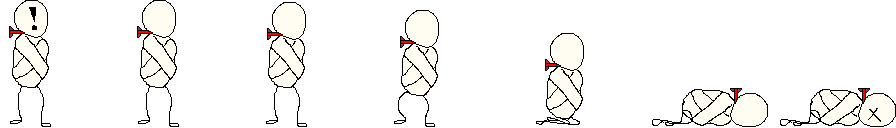
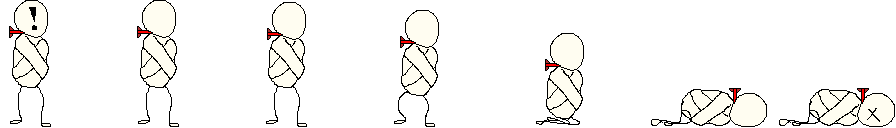
get taserd

Changed region(s): [[0.7188, 0.6875, 1.0, 0.9688]]

diff --git a/src/js/game.js b/src/js/game.js
@@ -6,13 +6,15 @@ var canvasWidth = 1024
 var canvasHeight = 768
 
 var isWakingUp = false
-var wakingUpTime = 60 * 2
+var wakingUpTime = 60 * 4.6
 var wakingUpCount = wakingUpTime
 
-var isFallingAsleep = false
 var winningAnimationPlaying = false
 
-var guardCount = 1
+var guardCount = 2
+
+var isOnIt = false
+var isAtDoor = false
 
 var player = {
   x: 0,
@@ -24,23 +26,27 @@ var player = {
   distress: 0,
   direction: 'left',
   isWalking: false,
+  caughtBy: null,
 }
 
 var guardFactory = function () {
-  return JSON.parse(JSON.stringify({
-    isOnIt: false,
-    isAtDoor: false,
+  var guard = JSON.parse(JSON.stringify({
     shotCooldownStart: 67,
     shotCooldown: 67,
-    x: 128 + 44,
+    x: 128 + 44 + (64 * Math.random()),
     y: 32,
-    speed: 1.2,
+    speed: 1.2 + Math.random(),
     isWalking: false,
     direction: 'right',
+    isTasering: false,
   }))
+
+  guard.guard_walking_sprite = SpriteSheet.new(images.guard_walking, images.guard_walking_sprite_template)
+
+  return guard
 }
 
-var guard1 = guardFactory()
+var guards = []
 
 var shotFactory = function (x, y, targetX, targetY) {
   var dx = targetX - x
@@ -67,8 +73,13 @@ var reset = function () {
   player.distress = 0
   player.speed = player.baseSpeed
   player.isWalking = false
+  player.direction = 'left'
+  player.caughtBy = null
 
-  guard1 = guardFactory()
+  guards = []
+  for (var i = 0; i < guardCount; i++) {
+    guards.push(guardFactory())
+  }
 
   shots = []
 
@@ -80,7 +91,13 @@ var reset = function () {
   images.freedom_sprite.pause()
   images.freedom_sprite.currentFrame = 0
 
-  isFallingAsleep = false
+  images.gubbe_standup_sprite.currentFrame = 0
+  images.gubbe_standup_sprite.play()
+
+  isOnIt = false
+  isAtDoor = false
+  isWakingUp = true
+
   winningAnimationPlaying = false
 
   wakingUpCount = wakingUpTime
@@ -90,7 +107,6 @@ module.exports = {
   name: 'game',
   create: function () {
     console.log('game create', this.sharedObject)
-    isWakingUp = true
     reset()
   },
   destroy: function () {
@@ -100,13 +116,15 @@ module.exports = {
   update: function () {
 
     if (isWakingUp) {
+      images.gubbe_standup_sprite.tick(1000/60)
       wakingUpCount--
       if (wakingUpCount < 0) {
         isWakingUp = false
       }
       return
-    } else if (isFallingAsleep) {
+    } else if (player.caughtBy !== null) {
       images.gubbe_putdown_sprite.tick(1000 / 60)
+      images.gubbe_taserd_sprite.tick(1000 / 60)
       return
     } else if (winningAnimationPlaying) {
       images.freedom_sprite.tick(1000 / 60)
@@ -161,38 +179,60 @@ module.exports = {
     }
 
     // trigger guard
-    if (player.distress > 520 && !guard1.isOnIt) {
-      guard1.isOnIt = true
+    if (player.distress > 520 && !isOnIt) {
+      isOnIt = true
 
-      guard1.isAtDoor = true
+      isAtDoor = true
       images.door_sprite.currentFrame = 1
 
     }
 
-    // shoot tranquilizer
-    if (guard1.isAtDoor) {
-      guard1.isWalking = false
-      if (guard1.shotCooldown < 0) {
-        shots.push(shotFactory(guard1.x, guard1.y, player.x, player.y))
-        guard1.shotCooldown = guard1.shotCooldownStart
-      } else if (guard1.shotCooldown > guard1.shotCooldownStart / 2) {
-        var dx = player.x - guard1.x
-        var dy = player.y - guard1.y
-        var angle = Math.atan2(dy, dx)
-        guard1.x += Math.cos(angle) * guard1.speed
-        guard1.y += Math.sin(angle) * guard1.speed
+    // shoot tranquilizer and walk guards
+    if (isAtDoor) {
 
-        images.guard_walking_sprite.tick(1000/60)
-        guard1.isWalking = true
+      var playerMiddleX = player.x - player.w / 2
+      var playerMiddleY = player.y - player.h / 2
 
-        if (dx > 0) {
-          guard1.direction = 'right'
-        } else {
-          guard1.direction = 'left'
+      for (var i = 0; i < guards.length; i++) {
+        var guard = guards[i]
+        guard.isWalking = false
+        if (guard.shotCooldown < 0) {
+          shots.push(shotFactory(guard.x, guard.y, player.x, player.y))
+          guard.shotCooldown = guard.shotCooldownStart
+        } else if (guard.shotCooldown > guard.shotCooldownStart / 2) {
+          var dx = player.x - guard.x
+          var dy = player.y - guard.y
+          var angle = Math.atan2(dy, dx)
+          guard.x += Math.cos(angle) * guard.speed
+          guard.y += Math.sin(angle) * guard.speed
+          guard.guard_walking_sprite.tick(1000/60)
+          guard.isWalking = true
+
+          if (dx > 0) {
+            guard.direction = 'right'
+          } else {
+            guard.direction = 'left'
+          }
         }
-      }
 
-      guard1.shotCooldown--
+        var a = guard.x - playerMiddleX
+        var b = guard.y - playerMiddleY
+        var deltaDistance = Math.sqrt(a * a + b * b)
+
+        if (deltaDistance < 64) {
+          player.caughtBy = 'taser'
+
+          guard.isTasering = true
+
+          setTimeout(function () {
+            reset()
+          }, 2800)
+
+          return
+        }
+
+        guard.shotCooldown--
+      }
     }
 
     // update shots
@@ -202,12 +242,11 @@ module.exports = {
       shot.y += Math.sin(shot.angle) * shot.speed
 
       if (isPointInsideRect(shot.x, shot.y, player.x, player.y, player.w, player.h)) {
-        isFallingAsleep = true
+        player.caughtBy = 'shot'
 
         images.gubbe_putdown_sprite.play()
 
         setTimeout(function () {
-          isWakingUp = true
           reset()
         }, 4000)
       }
@@ -222,11 +261,10 @@ module.exports = {
     images.emotions3_sprite.tick((1000 / 60) * player.distress / 100)
 
     // is player at win trigger
-    if (isPointInsideRect(player.x, player.y, 128 + 44, 32, 72, 64)) {
+    if (isAtDoor && isPointInsideRect(player.x, player.y, 128 + 44, 32, 72, 64)) {
       winningAnimationPlaying = true
       images.freedom_sprite.play()
       setTimeout(function () {
-        isWakingUp = true
         reset()
       }, 6000)
     }
@@ -248,9 +286,11 @@ module.exports = {
       renderingContext.translate(player.x, player.y - 64)
     }
 
-    if (isFallingAsleep) {
+    if (player.caughtBy === 'shot') {
       images.gubbe_putdown_sprite.draw(renderingContext)
-    } else if (!winningAnimationPlaying) {
+    } else if (player.caughtBy === 'taser') {
+      images.gubbe_taserd_sprite.draw(renderingContext)
+    } else if (!winningAnimationPlaying && !isWakingUp) {
       if (player.isWalking) {
         images.gubbe_walking_sprite.draw(renderingContext)
       } else {
@@ -260,7 +300,7 @@ module.exports = {
 
     renderingContext.restore()
 
-    if (!isFallingAsleep && !winningAnimationPlaying) {
+    if (player.caughtBy === null && !winningAnimationPlaying && !isWakingUp) {
       if (player.distress > 480) {
         renderingContext.save()
         renderingContext.translate(player.x, player.y - 76)
@@ -289,31 +329,43 @@ module.exports = {
       }
     }
 
-    if (guard1.isAtDoor) {
+    if (isAtDoor) {
 
       // renderingContext.fillStyle = '#FFFF00'
       // renderingContext.fillRect(128 + 44, 32, 72, 64)
 
-      renderingContext.save()
-      if (guard1.direction === 'left') {
-        renderingContext.translate(guard1.x + 64, guard1.y - 64)
-        renderingContext.scale(-1, 1)
-      } else {
-        renderingContext.translate(guard1.x, guard1.y - 64)
-      }
+      for (var i = 0; i < guards.length; i++) {
+        var guard = guards[i]
+        renderingContext.save()
+        if (guard.direction === 'left') {
+          renderingContext.translate(guard.x + 64, guard.y - 64)
+          renderingContext.scale(-1, 1)
+        } else {
+          renderingContext.translate(guard.x, guard.y - 64)
+        }
 
-      if (guard1.isWalking) {
-        images.guard_walking_sprite.draw(renderingContext)
-        renderingContext.restore()
-      } else {
-        renderingContext.restore()
-        renderingContext.drawImage(images.guard_stand, guard1.x, guard1.y - 64)
+        if (guard.isTasering) {
+          images.guard_tasering_sprite.draw(renderingContext)
+          renderingContext.restore()
+        } else if (guard.isWalking) {
+          guard.guard_walking_sprite.draw(renderingContext)
+          renderingContext.restore()
+        } else {
+          renderingContext.restore()
+          renderingContext.drawImage(images.guard_stand, guard.x, guard.y - 64)
+        }
       }
 
     }
 
 
     if (isWakingUp) {
+
+      renderingContext.save()
+      renderingContext.translate(player.x, player.y - 64)
+      images.gubbe_standup_sprite.draw(renderingContext)
+      renderingContext.restore()
+
       var alpha = wakingUpCount / wakingUpTime
       renderingContext.fillStyle = 'rgba(0, 0, 0, ' + alpha + ')'
       renderingContext.fillRect(0, 0, canvasWidth, canvasHeight)

diff --git a/src/js/images.js b/src/js/images.js
@@ -10,13 +10,26 @@ var gubbe_stand = new Image();
 gubbe_stand.src = "../../assets/images/gubbe_stand.png";
 
 var gubbe_stand_sprite = SpriteSheet.new(gubbe_stand, {
-  frames: [1000, 50],
+  frames: [1000, 50, 900, 70, 110],
   x: 0,
   y: 0,
   width: 64,
   height: 128,
   restart: true,
   autoPlay: true,
+})
+
+var gubbe_standup = new Image();
+gubbe_standup.src = "../../assets/images/gubbe_standup.png";
+
+var gubbe_standup_sprite = SpriteSheet.new(gubbe_standup, {
+  frames: [2000, 500, 1000, 500, 200, 200, 200],
+  x: 0,
+  y: 0,
+  width: 64,
+  height: 128,
+  restart: false,
+  autoPlay: false,
 })
 
 var gubbe_walking = new Image();
@@ -35,8 +48,21 @@ var gubbe_walking_sprite = SpriteSheet.new(gubbe_walking, {
 var guard_walking = new Image();
 guard_walking.src = "../../assets/images/guard_walk.png";
 
-var guard_walking_sprite = SpriteSheet.new(guard_walking, {
+var guard_walking_sprite_template = {
   frames: [200, 200, 200],
+  x: 0,
+  y: 0,
+  width: 64,
+  height: 128,
+  restart: true,
+  autoPlay: true,
+}
+
+var guard_tasering = new Image();
+guard_tasering.src = "../../assets/images/guard_taser.png";
+
+var guard_tasering_sprite = SpriteSheet.new(guard_tasering, {
+  frames: [40, 40],
   x: 0,
   y: 0,
   width: 64,
@@ -110,11 +136,24 @@ var gubbe_putdown_sprite = SpriteSheet.new(gubbe_putdown, {
   autoPlay: false,
 })
 
+var gubbe_taserd = new Image();
+gubbe_taserd.src = "../../assets/images/gubbe_taserd.png";
+
+var gubbe_taserd_sprite = SpriteSheet.new(gubbe_taserd, {
+  frames: [50, 50],
+  x: 0,
+  y: 0,
+  width: 128,
+  height: 128,
+  restart: true,
+  autoPlay: true,
+})
+
 var freedom = new Image();
 freedom.src = "../../assets/images/freedom.png";
 
 var freedom_sprite = SpriteSheet.new(freedom, {
-  frames: [4500, 1],
+  frames: [2000, 1],
   x: 0,
   y: 0,
   width: 1024,
@@ -126,13 +165,17 @@ var freedom_sprite = SpriteSheet.new(freedom, {
 module.exports = {
   bg: bg,
   gubbe_stand_sprite: gubbe_stand_sprite,
+  gubbe_standup_sprite: gubbe_standup_sprite,
   gubbe_walking_sprite: gubbe_walking_sprite,
   door_sprite: door_sprite,
-  guard_walking_sprite: guard_walking_sprite,
+  guard_walking: guard_walking,
+  guard_walking_sprite_template: guard_walking_sprite_template,
   guard_stand: guard_stand,
+  guard_tasering_sprite: guard_tasering_sprite,
   emotions_sprite: emotions_sprite,
   emotions2_sprite: emotions2_sprite,
   emotions3_sprite: emotions3_sprite,
   gubbe_putdown_sprite: gubbe_putdown_sprite,
+  gubbe_taserd_sprite: gubbe_taserd_sprite,
   freedom_sprite: freedom_sprite,
 }
